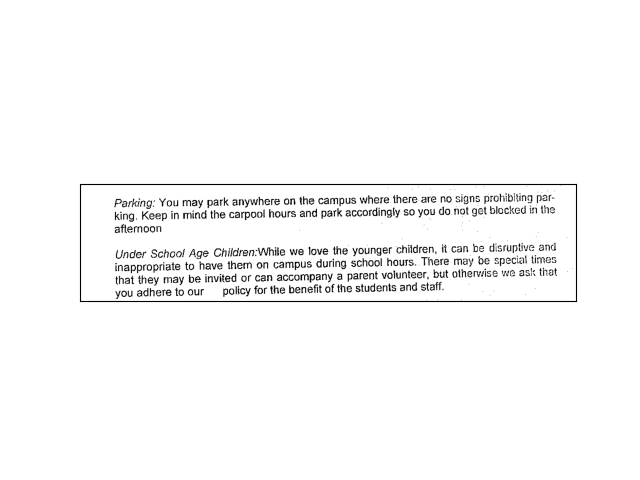
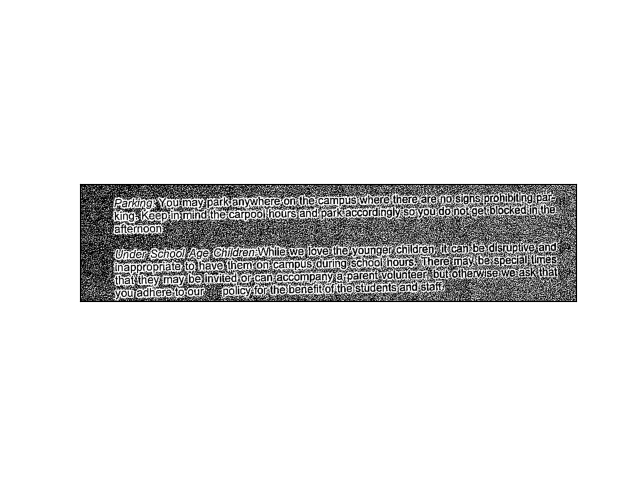
Apply noise and erosion

Changed region(s): [[0.125, 0.375, 0.9062, 0.625]]

diff --git a/main.py b/main.py
@@ -36,8 +36,8 @@ def getSkewAngle(cvImage):
 img = cv2.imread('sample01.png', 0)
 
 ret, th1 = cv2.threshold(img, 127, 255, cv2.THRESH_BINARY)
-th2 = cv2.adaptiveThreshold(img, 255, cv2.ADAPTIVE_THRESH_MEAN_C, cv2.THRESH_BINARY, 5, 5.5)
-th3 = cv2.adaptiveThreshold(img, 255, cv2.ADAPTIVE_THRESH_GAUSSIAN_C, cv2.THRESH_BINARY, 5, 5.5)
+th2 = cv2.adaptiveThreshold(img, 255, cv2.ADAPTIVE_THRESH_MEAN_C, cv2.THRESH_BINARY, 5, 0)
+th3 = cv2.adaptiveThreshold(img, 255, cv2.ADAPTIVE_THRESH_GAUSSIAN_C, cv2.THRESH_BINARY, 5, 0)
 titles = ['Original Image', 'Global Thresholding (v = 127)', 'Adaptive Mean Thresholding', 'Adaptive Gaussian Thresholding']
 images = [img, th1, th2, th3]
 
@@ -46,7 +46,6 @@ for i in range(4):
     plt.subplot(2, 2, i+1), plt.imshow(images[i], 'gray')
     plt.title(titles[i])
     plt.xticks([]), plt.yticks([])
-plt.show()
 
 plt.figure(frameon=False)
 plt.imshow(th3, 'gray')
@@ -54,6 +53,14 @@ plt.xticks([]), plt.yticks([])
 plt.savefig('adaptive_threshold.png')
 
 print(pytesseract.image_to_string('adaptive_threshold.png'))
+
+# denoising
+th3 = cv2.adaptiveThreshold(img, 255, cv2.ADAPTIVE_THRESH_GAUSSIAN_C, cv2.THRESH_BINARY, 5, 5.5)
+plt.figure(frameon=False)
+plt.imshow(th3, 'gray')
+plt.xticks([]), plt.yticks([])
+plt.savefig('denoise.png')
+print(pytesseract.image_to_string('denoise.png'))
 
 # deskewing
 skewed_angle = getSkewAngle(th3)
@@ -67,4 +74,15 @@ plt.imshow(th4, 'gray')
 plt.xticks([]), plt.yticks([])
 plt.savefig('deskewing.png')
 
-print(pytesseract.image_to_string('adaptive_threshold.png'))
+print(pytesseract.image_to_string('deskewing.png'))
+
+#erosion - not optimal
+kernel = np.ones((3,3),np.uint8)
+erosion = cv2.erode(img,kernel,iterations = 2)
+
+plt.figure(frameon=False)
+plt.imshow(erosion, 'gray')
+plt.xticks([]), plt.yticks([])
+plt.savefig('erosion.png')
+
+print(pytesseract.image_to_string('erosion.png'))
